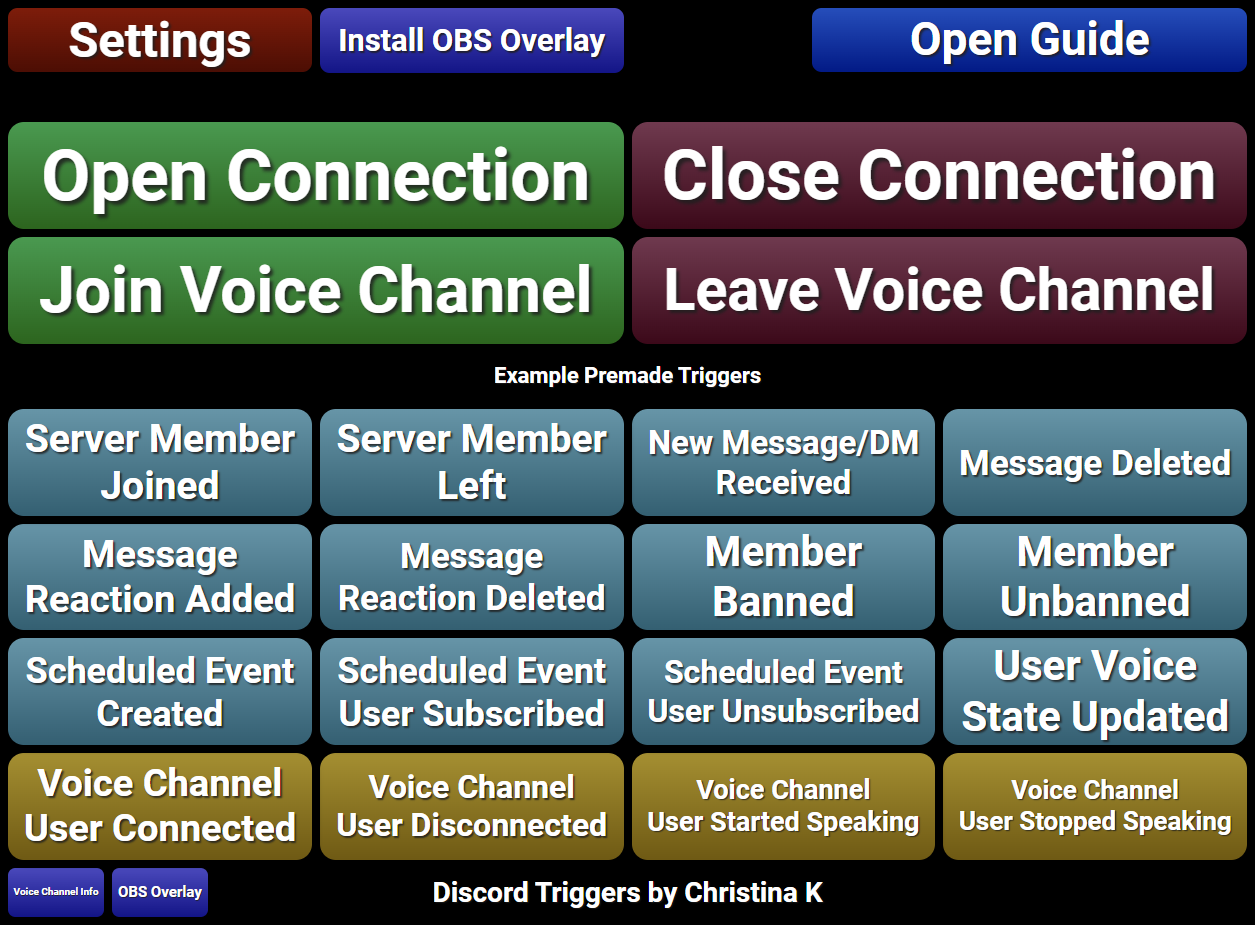
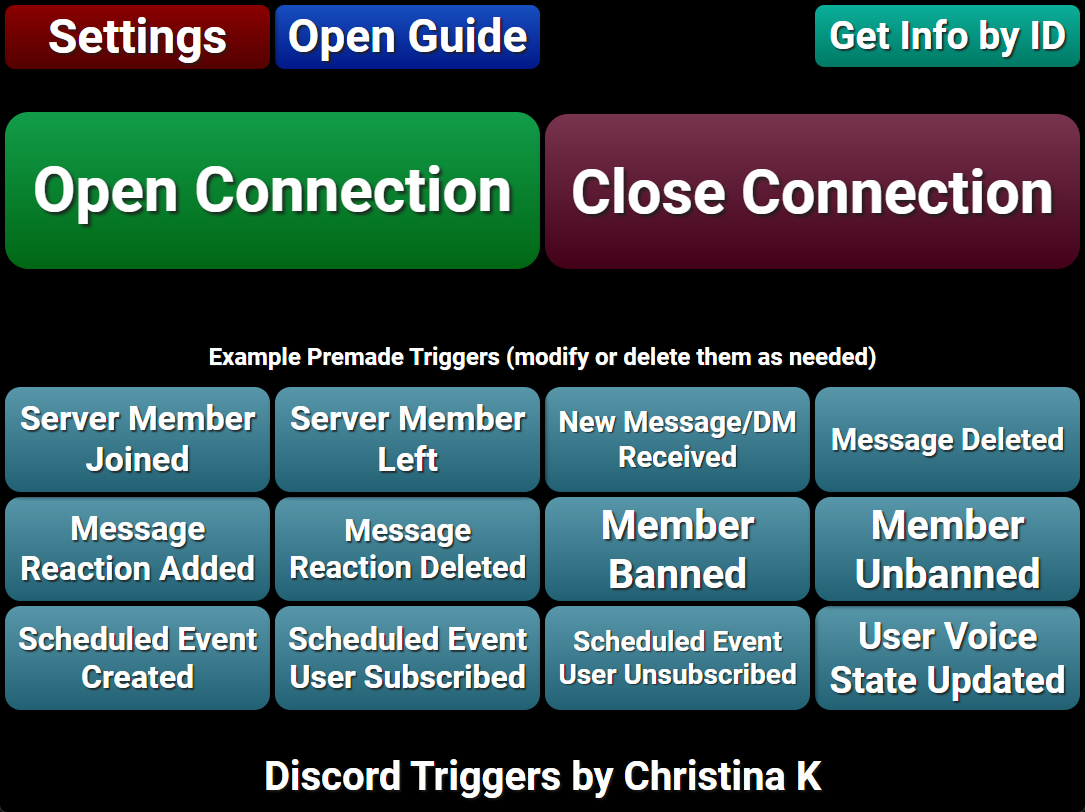
Update Discord Triggers

diff --git a/collections/_extensions/discord-triggers.md b/collections/_extensions/discord-triggers.md
@@ -2,17 +2,17 @@
 layout: ext_single
 title: Discord Triggers
 slug: discord-triggers
-desc: Receive Discord events in SAMMI, including voice states.
+desc: Receive Discord events in SAMMI
 category: social
-date: '2024-07-26T00:00:00-05:00'
+date: '2024-12-19T00:00:00-05:00'
 permalink: extensions/social/:slug
 download_url: https://christinak.itch.io/discord-triggers
 developer_name: Christina K.
 developer_url: https://christinak.itch.io
 icon_local: discord_triggers.png
 trailer: https://www.youtube.com/embed/sgmr-sQDy2s
-screenshots_local: discord_triggers_ss.png, discord_triggers_ss2.png
-version: 1.0
+screenshots_local: discord_triggers_ss.png
+version: 2.0
 sammi_version: 2024.1.1
 platform: Any
 overview: |
@@ -21,8 +21,6 @@ overview: |
     #### Features
 
     - Connect to your Discord server and **listen to all available events**.
-    - Connect to the specified voice channel and **listens to users joining, leaving, and their speaking status**.
-    - **OBS Overlay:** Display the speaking status of users in your voice channel in an OBS overlay. Highly customizable, auto installs.
     - **Premade deck with example buttons:** Get started quickly with a premade deck that includes example triggers for the most common events.
 
     #### Available Events:
@@ -32,7 +30,6 @@ overview: |
     - **Messages** - channel and direct message created/modified/deleted, reaction added/removed, etc.
     - **Events** - event created/updated/deleted, user joined event, etc.
     - **Polls** - poll created/updated/deleted, user voted, etc.
-    - **Voice Channel** - user joined/left voice channel, user started/stopped speaking.
 
     For all available events, refer to the [Discord Documentation](https://discord.com/developers/docs/topics/gateway-events#receive-events).
 setup_url: https://docs.christinak.ca/docs/extensions/discord-triggers#setup
